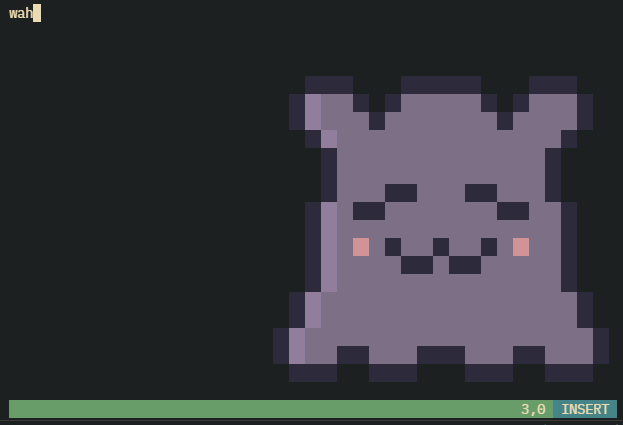
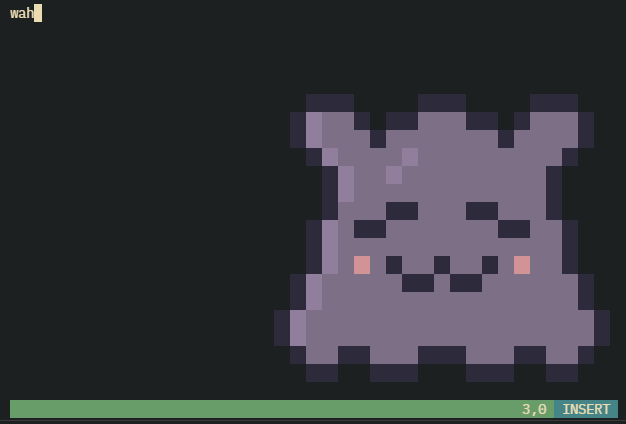
improved takodachi

diff --git a/src/tako.rs b/src/tako.rs
@@ -1,53 +1,77 @@
-use std::io;
-use std::io::Write;
+use std::io::{self, Write};
 
 use console::Term;
 
 use crate::Position;
 
-const COLORS: [(u8, u8, u8); 4] = [
-    (45, 42, 59),
-    (145, 126, 156),
-    (125, 111, 134),
-    (209, 147, 150),
+pub struct Color {
+    r: u8,
+    g: u8,
+    b: u8,
+}
+
+const COLOR_OUTLINE: Color = Color {
+    r: 45,
+    g: 42,
+    b: 59,
+};
+
+const COLOR_HIGHLIGHTS: Color = Color {
+    r: 145,
+    g: 126,
+    b: 156,
+};
+
+const COLOR_FILL: Color = Color {
+    r: 125,
+    g: 111,
+    b: 134,
+};
+
+const COLOR_BLUSH: Color = Color {
+    r: 209,
+    g: 147,
+    b: 150,
+};
+
+pub const TAKODACHI_WIDTH: usize = 42;
+pub const TAKODACHI_HEIGHT: usize = 16;
+
+const TAKO: [&[u8; TAKODACHI_WIDTH / 2]; TAKODACHI_HEIGHT] = [
+    b"__###____###____###__",
+    b"_#-==#_##===##_#===#_",
+    b"_#-===#=======#====#_",
+    b"__#-====-=========#__",
+    b"___#-==-=========#___",
+    b"___#-============#___",
+    b"___#===##===##===#___",
+    b"__#-=##=======##==#__",
+    b"__#-==============#__",
+    b"__#-=*=#==#==#=*==#__",
+    b"_#-=====##=##======#_",
+    b"_#-================#_",
+    b"#-==================#",
+    b"#-==================#",
+    b"_#==##===###===##==#_",
+    b"__##__###___###__##__",
 ];
 
-const TAKO: [&[u8; 21]; 17] = [
-    b"__111___11111___111__",
-    b"_12331_1333331_13331_",
-    b"_1233313333333133331_",
-    b"__12333333333333331__",
-    b"___133333333333331___",
-    b"___133333333333331___",
-    b"___133311333113331___",
-    b"__12311333333311331__",
-    b"__12333333333333331__",
-    b"__12343133133134331__",
-    b"__12333311311333331__",
-    b"__12333333333333331__",
-    b"_1233333333333333331_",
-    b"_1233333333333333331_",
-    b"123333333333333333331",
-    b"123311333111333113331",
-    b"_111__111___111__111_",
-];
-
-pub fn draw_tako(term: &mut Term, orig: Position) -> io::Result<()> {
+pub fn draw_takodachi(term: &mut Term, orig: Position) -> io::Result<()> {
     for (i, line) in TAKO.iter().enumerate() {
         term.move_cursor_to(orig.col, orig.row + i)?;
         for char in line.iter() {
             let color = match char {
-                0x31 => COLORS[0],
-                0x32 => COLORS[1],
-                0x33 => COLORS[2],
-                0x34 => COLORS[3],
+                0x23 => COLOR_OUTLINE,
+                0x2D => COLOR_HIGHLIGHTS,
+                0x3D => COLOR_FILL,
+                0x2A => COLOR_BLUSH,
                 _ => {
                     term.move_cursor_right(2)?;
                     continue;
                 }
             };
 
-            write!(term, "\x1b[48;2;{};{};{}m  ", color.0, color.1, color.2)?;
+            write!(term, "\x1b[48;2;{};{};{}m  ", color.r, color.g, color.b)?;
         }
     }
 

diff --git a/src/main.rs b/src/main.rs
@@ -74,11 +74,11 @@ impl Editor {
         }
 
         let tako_pos = Position {
-            col: width as usize - 43,
-            row: height as usize - 19,
+            col: width as usize - tako::TAKODACHI_WIDTH - 1,
+            row: height as usize - tako::TAKODACHI_HEIGHT - 2,
         };
 
-        tako::draw_tako(term, tako_pos)?;
+        tako::draw_takodachi(term, tako_pos)?;
 
         term.move_cursor_to(0, height as usize)?;
 
